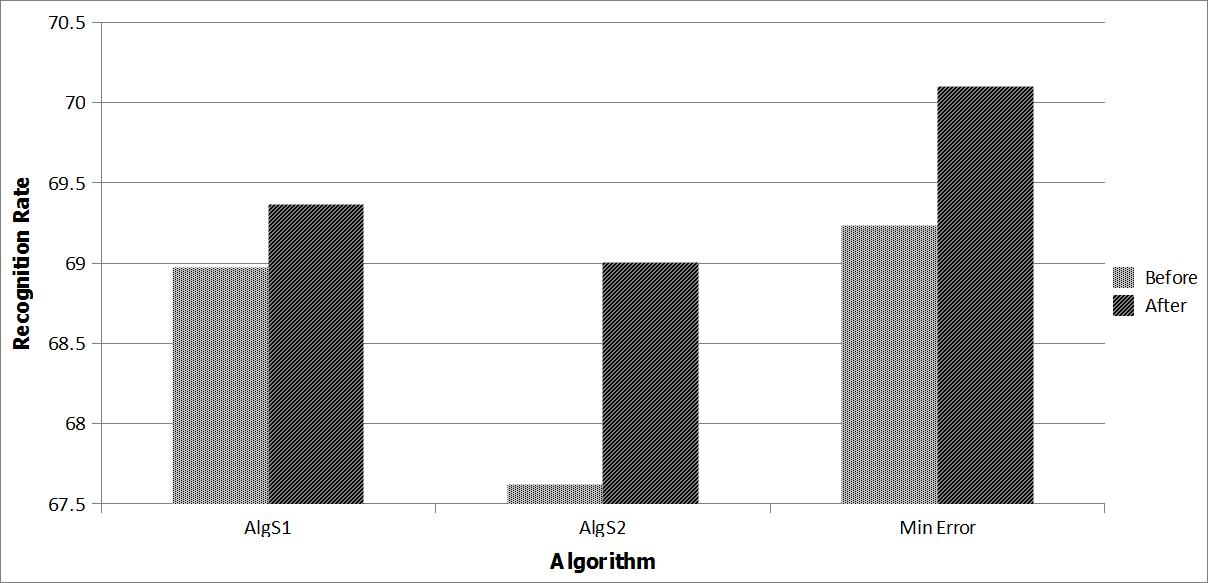
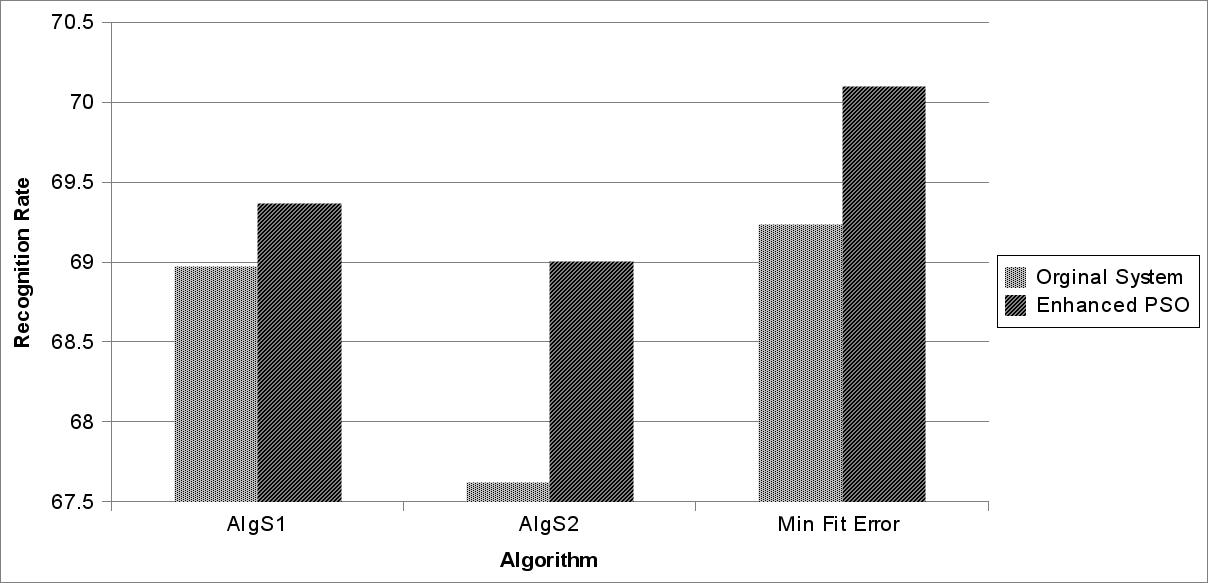
after finishing the code

diff --git a/Swarm/tmp/swarmModified.tex b/Swarm/tmp/swarmModified.tex
@@ -121,10 +121,7 @@ p^{new}_{ij}\Leftarrow
 %where $iRandom_i$ and $Random_j$ are two particles in the solution space. This modification replace the distance between the current particle and the local best with two random particle from the space. The effect of this change in more expolration and avoiding of local min problems. Equation \ref{eq:ModSwarm} is computed and the new particle locaiton is calculated. The new location is compared the location of particle if with equation \ref{eq:Swarm} if the modified location is better (mean better fitness function) then the new location is selected otherwise the old equation is used. 
 \section{System Discribtion  }\label{Sysdisc}
 %\label{sec:application}
-The modified swarm algorithm is used to improve the performance of the sketch recognition system in \cite{myPaper}. 
-%\subsection{The system}
-
- The sketch recognitions system is divided into three main steps 1) preprocessing, 2) segmentation and 3) Recognition. The following section provides a detailed description of each step.
+The modified swarm algorithm is used to improve the performance of the sketch recognition system in \cite{mypaper}. The sketch recognitions system is divided into three main steps 1) preprocessing, 2) segmentation and 3) Recognition. The following section provides a detailed description of each step. The main block of the system remains the same but their is some modification in the segmentation algorithm to improve its efficiency. The main modification is using Enhanced Particle swarm algorithm instead of Basic Particle swarm algorithms. Other modifications are explained in the details in the next sections.  
 \subsection{Preprocessing}
 \label{Prepross}
  Speed and time difference information were widely used in sketch understanding systems \cite{earlyprocess}. It was noted that time difference provides more distinct maxima than the speed information. Agar \cite{polygonfeedback31} mentions that the pointing device (i.e. the mouse) sampling rate is the reason for this phenomenon. 
@@ -151,7 +148,7 @@ E = \sum\limits_{i = 0}^N {\frac{{(x_i - x_0 )}}{{a^2 }}^2  + \frac{{(y_i - y_0 
 \label{eq:circleFit}
 \end{equation}
 
- where $N$ is number of points in the stroke, $a,b$ are the length of ellipse axes, $x_0$ \& $y_0$ are the coordinates of the center point, $x_i$ \& $y_i$ are the coordinates of point $i$ in the stroke. A list of new values for $x_0$ , $y_0$ ,$a$ and $b$ are generated randomly from the older values with small increments after each loop.  After few iteration, the final fit error of the estimated ellipse is reported. Another measure is used to compute the efficiency of the final estimated ellipse. Equation \ref{eq:circleError} ensures that the drawn percentage of ellipse is considered. This eliminates fitting a line into very large ellipse but leaves small ellipses to be fitted as a partial or full ellipse. 
+ where $N$ is number of points in the stroke, $a,b$ are the length of ellipse axes, $x_0$ \& $y_0$ are the coordinates of the center point, $x_i$ \& $y_i$ are the coordinates of point $i$ in the stroke. A list of new values for $x_0$ , $y_0$ ,$a$ and $b$ are generated randomly from the older values with small increments after each loop.  After few iteration, the final fit error of the estimated ellipse is reported. A modification to the system in \cite{mypaper} is trying to add another measure to compute the efficiency of the final estimated ellipse. Equation \ref{eq:circleError} ensures that the drawn percentage of ellipse is considered. This eliminates fitting a line into very large ellipse but leaves small ellipses to be fitted as a partial or full ellipse. 
 
  \begin{equation}
 eff= (P_{percent}/E)
@@ -207,7 +204,7 @@ E=\sum\nolimits_{i = 0}^M e(D_i)
 \label{eq:fitnessSwarm2}
 \end{equation} where $E$ is the error and $M$ is the number of segments and $k$ is a parameter tweaked to get minimum number of segments. The larger $k$ is, the more effect the number of segments will have. For our system, $k$ is selected to be 0.5\cite{CruveDivisionSwarm}.
 
-After each iteration, of the swarm algorithm (\textsl{AlgS1} and \textsl{AlgS2}), each particle is refined using the following procedures: 
+As a modification to the system in \cite{mypaper}. After each iteration, of the swarm algorithm (\textsl{AlgS1} and \textsl{AlgS2}), each particle is refined using the following procedures: 
 \begin{enumerate}
 	\item For each particle $P_i$ each dominant point $P_{ij}$ is checked to find if it was labeled before as a \textit{possible dominant point} $P_{pd}$ (computed as in section \ref{Prepross}). If it was not labeled the point $P_{ij}$ is moved to the nearest labeled point. This ensures that all of the points generated by the DPSO are possible dominant points $P_{pd}$. 
 	\item The particles are tested to make sure that the distance between every two successive dominate point is larger than $min_D$, where $min_D$ is 5\% of the total length of the stroke.  Otherwise, one of these points are removed based on the error cased by its removal.
@@ -218,10 +215,10 @@ After each iteration, of the swarm algorithm (\textsl{AlgS1} and \textsl{AlgS2})
 \label{sec:Recognition}
 After the user draws all strokes of the symbol, the set of un-recognized strokes is grouped together along with their segmentation as input to the feature extraction process. A composite set of features is used to generate a single feature vector. The features used consist of Rubine feature set,  Zernike moments of order 10 \cite{HeloiseBeautification}, ink density as well as some structural and spatial information like number of perpendiculars lines ,number of parallel lines and number of different types of primitives in each symbol. After computing the features the symbol is introduced to the (SVM) classifier. 
 
-\cite{myPaper}  
+\cite{mypaper}  
 \section{Experiments} 
 \label{sec:Experiments}
-In our experiment we used the same benchmark dataset used in \cite{myPaper}, the dataset was collected by Hse and Newton\cite{HeloiseBeautification}. The data are drawn by 16 users each of them was asked to draw 13 shapes from 30 to 50 times. Figure \ref{fig:symbolSet} shows a set of the shapes used in the data set. Five different splits were generated to divide the dataset into training and test sets. The results displayed are the average recognition accuracy of the five splits. The accuracy is computed as the number of correctly recognized samples divided by the total number of samples in the test.
+In our experiment we used the same benchmark dataset used in \cite{mypaper}, the dataset was collected by Hse and Newton\cite{HeloiseBeautification}. The data are drawn by 16 users each of them was asked to draw 13 shapes from 30 to 50 times. Figure \ref{fig:symbolSet} shows a set of the shapes used in the data set. Five different splits were generated to divide the dataset into training and test sets. The results displayed are the average recognition accuracy of the five splits. The accuracy is computed as the number of correctly recognized samples divided by the total number of samples in the test.
 	 
  \begin{figure}
   \centering 
@@ -230,28 +227,28 @@ In our experiment we used the same benchmark dataset used in \cite{myPaper}, the
 		\caption[The Symbol Set] {The symbol set}   \label{fig:symbolSet}
 	 \end{figure}
 	  %The first experiment with the whole feature set and the second experiments with only half of the features.
-To demonstrate the change in accuracy is due to the enhanced swarm optimization algorithm we tested the recognition system using two sets of features. Firstly, we tested recognition accuracy of shapes in the data set with both algorithms (\textsl{AlgS1} and \textsl{AlgS2}) using the whole feature set. The second experiment was tested on both algorithm but only using half the feature set. 
+To demonstrate the change in accuracy is due to the enhanced swarm optimization algorithm we tested the recognition system using two sets of features. Firstly, we tested recognition accuracy of shapes in the data set with both algorithms (\textsl{AlgS1} and \textsl{AlgS2}) using the whole feature set. The second experiment was tested on both algorithm but only using half the feature set. Both experiments were compared with the orginal sketch recognition system prsenented in \cite{mypaper}. 
 
-Figures \ref{exp2} and \ref{exp1} show the recognition rate of each algorithm using the full feature set and half the features set respectively. The results show that the enhanced swarm optimization algorithm improves the segmentation of the system which leads to an increase in the recognition rate of the whole system by an average of $1.5\%$.  The increase in recognition rate is consistent in all swarm algorithms and in both experiments.    %n the We performed two experiments to test the system. Firstly, we tested recognition accuracy of shapes in the data set using the orginal swarm segmentation algorithm and then after using the enhanched swarm optimization. To  both algorithms (\textsl{AlgS1} and \textsl{AlgS2}). We also implemented the segmentation algorithm described in \cite{earlyprocess} (\textsl{Alg3}) to compare it with our swarm algorithms. Figure \ref{fig:test1} shows the accuracy achieved by each algorithm. The result shows that (\textsl{AlgS2}) gives better performance than Alg3 and AlgS1. 	 
+Figures \ref{exp2} and \ref{exp1} show the recognition rate of each algorithm using the full feature set and half the features set respectively. The figures compares between the result that can be obtained by system in \cite{mypaper} and modifying the sytem using Enhanced PSO. The results show that the enhanced swarm optimization algorithm improves the segmentation of the system which leads to an increase in the recognition rate of the whole system by an average of $1.5\%$.  The increase in recognition rate is consistent in all swarm algorithms and in both experiments.   %n the We performed two experiments to test the system. Firstly, we tested recognition accuracy of shapes in the data set using the orginal swarm segmentation algorithm and then after using the enhanched swarm optimization. To  both algorithms (\textsl{AlgS1} and \textsl{AlgS2}). We also implemented the segmentation algorithm described in \cite{earlyprocess} (\textsl{Alg3}) to compare it with our swarm algorithms. Figure \ref{fig:test1} shows the accuracy achieved by each algorithm. The result shows that (\textsl{AlgS2}) gives better performance than Alg3 and AlgS1. 	 
 	 
 %In our experiment we used three different datasets. First dataset was collected by Hse and Newton\cite{HeloiseBeautification} (Hs-DB). The data are drawn by 16 users each of them was asked to draw 13 shapes from 30 to 50 times. Figure \ref{fig:symbolSet} shows a set of the shapes used in the data set. We collected the second and third datasets. Figure \ref{fig:ELsymbolSet} and \ref{fig:LogicsymbolSet} shows the symbols gathered from 7 different users in electrical (EL-DB) and logic design (LD-DB) domain respectively.  Table \ref{tab:datasets} shows a  comparison between the three datasets used in our experiments. The datasets were divided into training set and test set. Five different splits  for the training and test data are generated from each dataset. The results displayed are the average recognition accuracy of the five splits. The accuracy is computed as the number of correctly recognized samples divided by the total number of samples in the test.
 
- %The goal of the system is to modify the segmentation and recognition of the sketch system. It made the same type of experiement done in \cite{myPaper}. The dataset is divided into 13 category of goemetric %symbols
+ %The goal of the system is to modify the segmentation and recognition of the sketch system. It made the same type of experiement done in \cite{mypaper}. The dataset is divided into 13 category of goemetric %symbols
  
  
 % The dataset collected by Hse and Newton\cite{HeloiseBeautification} is used to test the presented system.  Figure \ref{fig:symbolSet} shows a set of the shapes used in the data set. The datasets were divided into training and test sets. Five different splits for the training and test data are generated from each dataset. The results displayed are the average recognition accuracy of the five splits. The accuracy is computed as the number of correctly recognized samples divided by the total number of samples in the test.
     \begin{figure}
   \centering
-  \includegraphics[width=3.5in]{Experiment92.jpg}
+  \includegraphics[width=3.3in]{Experiment92.jpg}
   \caption[Recognition accuracy]%
-  {The recognition rate of system using the feature set.}
+  {The chart compares between recognition rate of the full feature set on both the orginal system presented in \cite{mypaper} and Enhanced PSO. The results shows that Enhanced PSO increases the performance over the orginal system. }
    \label{exp2}
 \end{figure}
 \begin{figure}
   \centering
-  \includegraphics[width=3.5in]{Experiment68.jpg}
+  \includegraphics[width=3.3in]{Experiment68.jpg}
   \caption[Recognition accuracy]%
-  {The recognition rate of system using half the feature set.}
+  {The chart compares between recognition rate of half the feature set on both the orginal system presented in \cite{mypaper} and Enhanced PSO. The results shows that Enhanced PSO increase the recognition rate. }
    \label{exp1}
 \end{figure}
 
